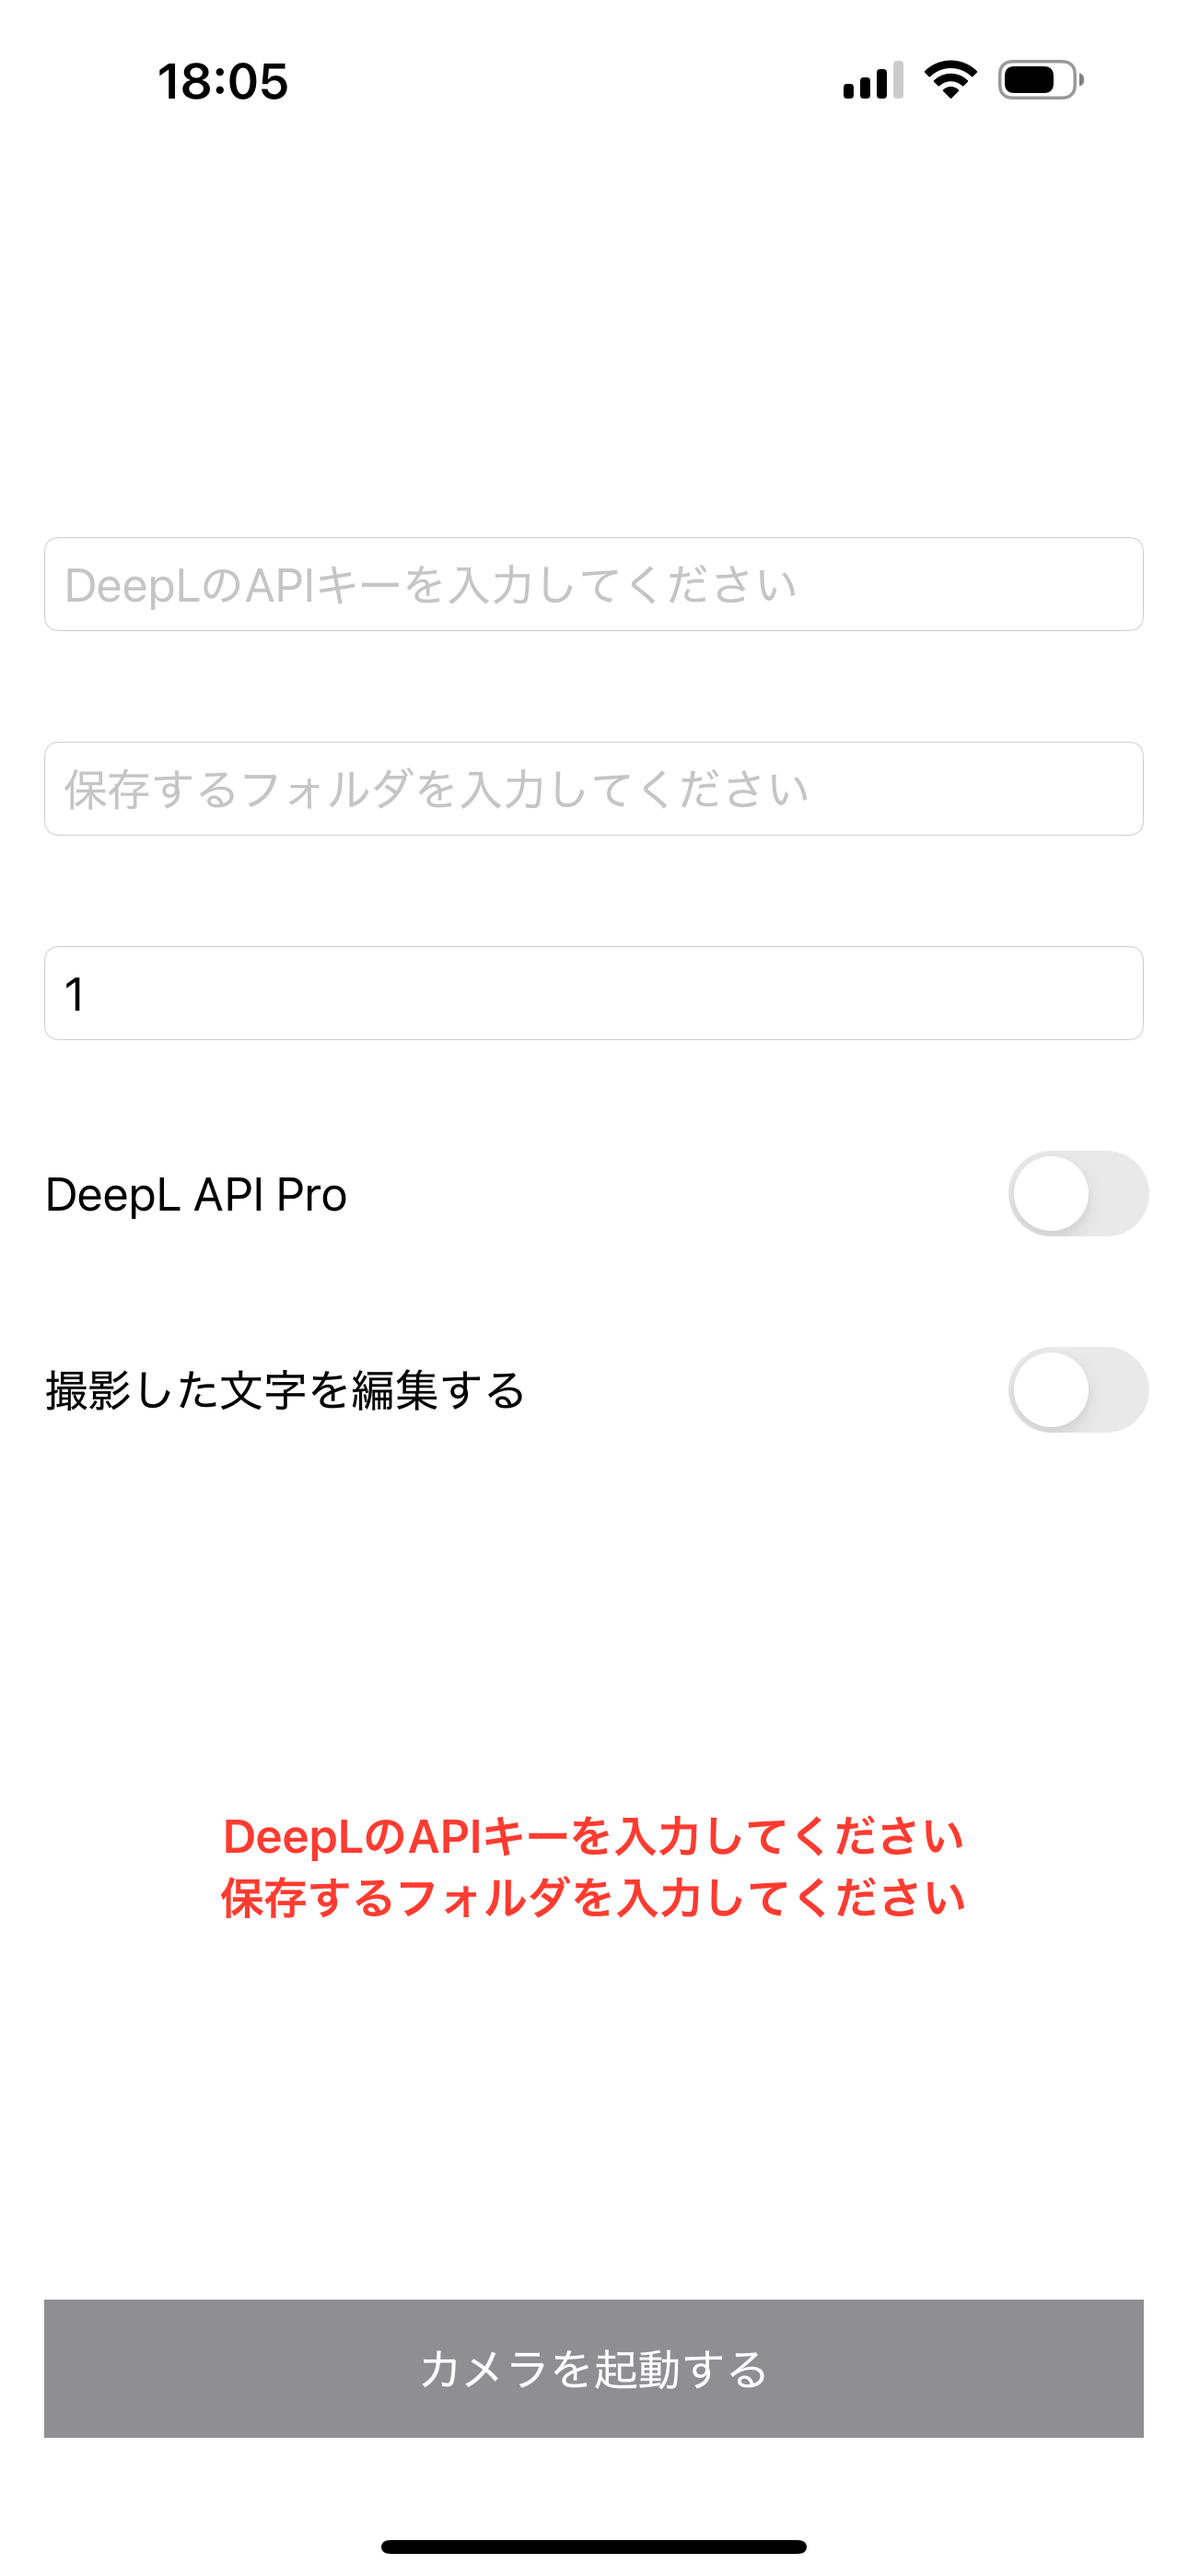
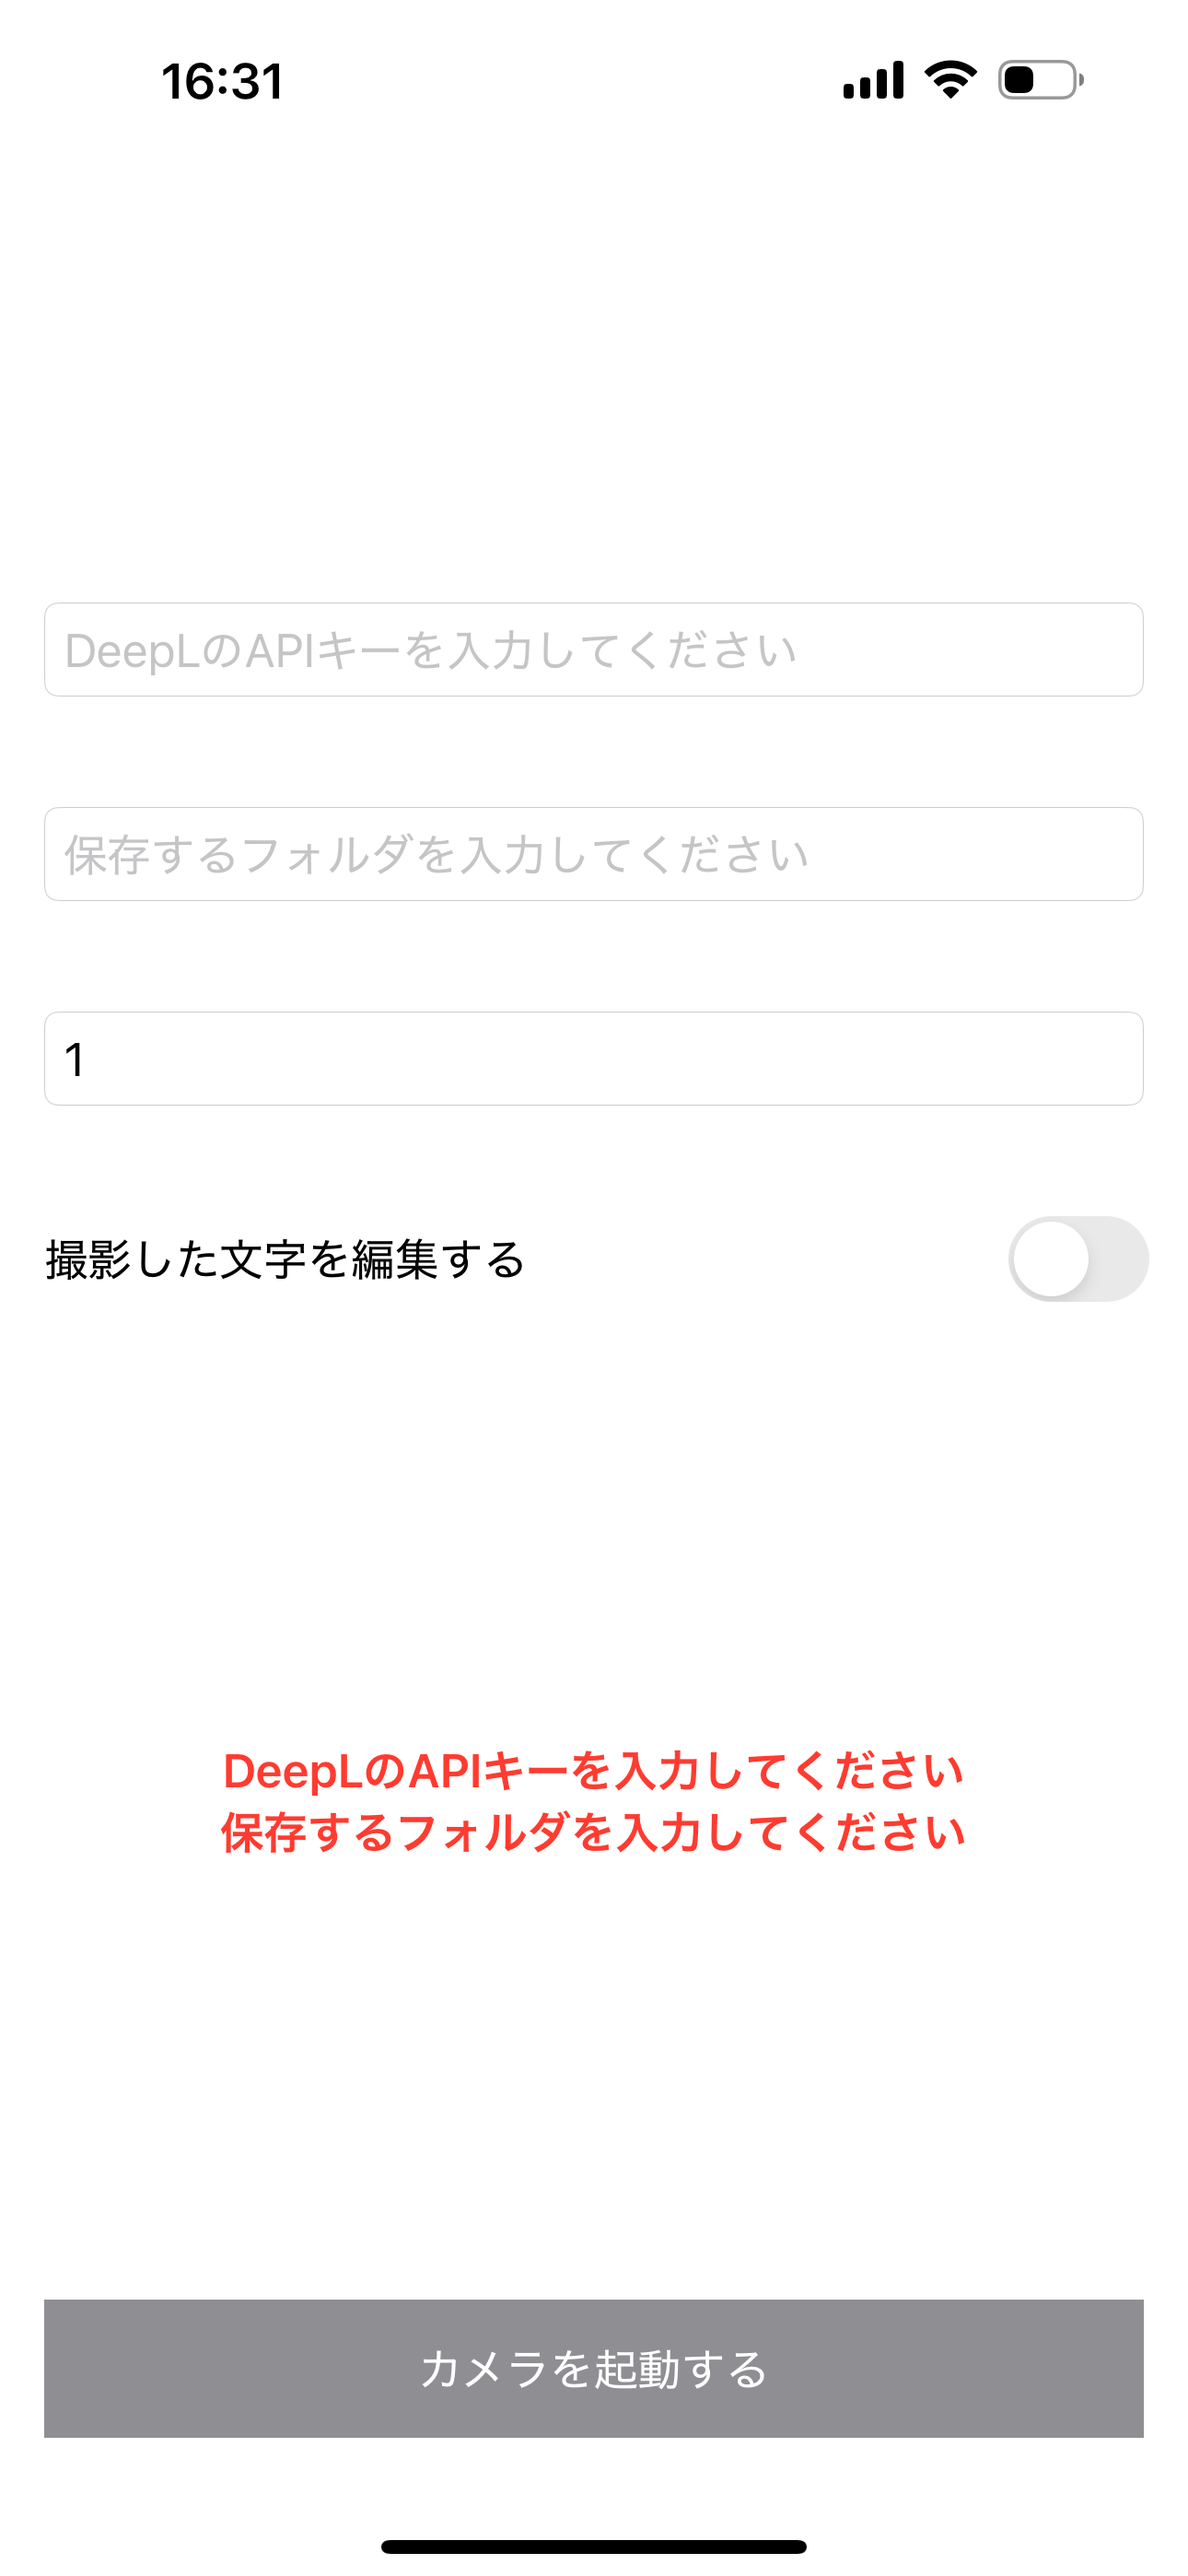
DeepL API Pro削除

diff --git a/MyTranslation.html b/MyTranslation.html
@@ -41,7 +41,7 @@
     <div class="container">
       <h1>概要</h1>
       <p>洋書翻訳カメラはカメラで撮影した洋書の文字を翻訳するアプリです。<br>英語から日本語に翻訳します。<br>翻訳結果は<br>ファイルアプリ/ブラウズ/このiPhone内/当アプリ/(ホーム画面で指定したフォルダ)/(ホーム画面で指定したページ).txt<br>に保存されます。</p>
-      <p class="text-danger">アプリ内でDeepL APIを利用するためDeepLのアカウントを作成してAPIキーを取得する必要があります。<br>APIキーの取得方法はブラウザで「deepl apiキー 取得方法」などで検索して調べてください。(APIキーの取得方法の記事の例は<a href="https://auto-worker.com/blog/?p=5030">こちら</a>)<br>アカウントは無料と有料があります。<br>無料の場合翻訳文字数に制限があります。2024年時点で1ヶ月に500,000文字まで翻訳できます。<br>有料の場合翻訳文字数に制限はありませんが利用料金が掛かりますのでご注意ください。2024年時点で月額基本料金と翻訳文字数に応じた料金が掛かります。</p>
+      <p class="text-danger">アプリ内でDeepL APIを利用するためDeepLのアカウントを作成してAPIキーを取得する必要があります。<br>APIキーの取得方法はブラウザで「deepl apiキー 取得方法」などで検索して調べてください。(APIキーの取得方法の記事の例は<a href="https://auto-worker.com/blog/?p=5030">こちら</a>)<br>アカウントは無料と有料があります。<br>無料の場合翻訳文字数に制限があります。2024年時点で1ヶ月に500,000文字まで翻訳できます。<br>有料の場合翻訳文字数に制限はありませんが利用料金が掛かりますのでご注意ください。2024年時点で月額基本料金と翻訳文字数に応じた料金が掛かります。<br>利用料金が掛かるのはDeepLのアカウントのみでアプリの利用料金は掛かりません。</p>
     </div>
   </div>
   <div class="lesson-wrapper" id="section1">
@@ -54,7 +54,7 @@
           <div class="lesson-icon">
             <a href="./images/MyTranslation_0001.PNG"><img src="./images/MyTranslation_0001.PNG"></a>
           </div>
-          <p class="text-contents">ホーム画面です。撮影するページは翻訳すると自動的にカウントアップします。DeepLのアカウントが有料の場合DeepL API ProをONにしてください。撮影した文字を編集するがONの場合編集画面を表示します。OFFの場合編集画面を表示せず翻訳します。</p>
+          <p class="text-contents">ホーム画面です。撮影するページは翻訳すると自動的にカウントアップします。撮影した文字を編集するがONの場合編集画面を表示します。OFFの場合編集画面を表示せず翻訳します。</p>
         </div>
         <div class="lesson">
           <div class="lesson-icon">
